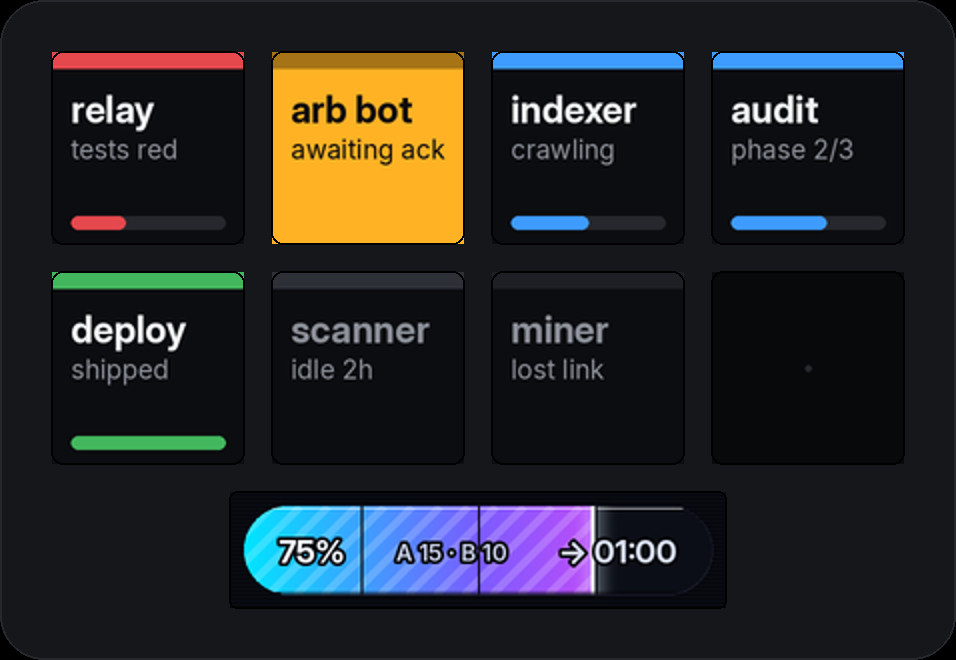
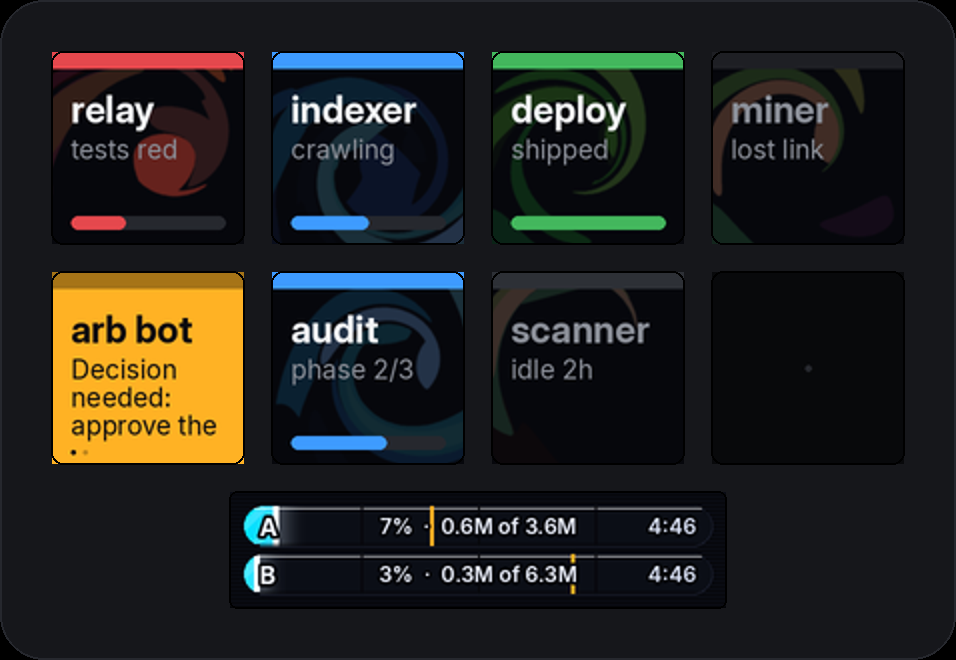
asks wrap and page on hot keys; user-guide front page finalized
Attention/blocked keys give the ask the key's whole middle: up to three
wrapped lines (markdown chrome stripped at the source), and long asks
alternate between two text pages on a 3s tick with tiny page dots — the
flash draws the eye, the page flip lets the sentence finish. Tick
threaded through client and deck fingerprints so only paged keys redraw.

README is now the operator guide that was asked for: orange vs red, the tally
bars, heat, the router verbs including space-done.

diff --git a/tallydeck/render/keycard.py b/tallydeck/render/keycard.py
@@ -54,8 +54,24 @@ def _wrap2(draw: ImageDraw.ImageDraw, text: str, font, max_w: int) -> list[str]:
     return [head, _truncate(draw, rest, font, max_w)]
 
 
+def _wrap_n(draw, text, font, max_w, max_lines):
+    words, lines, line = text.split(), [], ""
+    for w in words:
+        cand = f"{line} {w}".strip()
+        if draw.textlength(cand, font=font) > max_w and line:
+            lines.append(line)
+            line = w
+            if len(lines) == max_lines:
+                break
+        else:
+            line = cand
+    if line and len(lines) < max_lines:
+        lines.append(line)
+    return lines
+
+
 def draw_key(sig: Signal | None, px: int, lit: bool = False,
-             pressed: bool = False) -> Image.Image:
+             pressed: bool = False, askpage: int = 0) -> Image.Image:
     """Render one key face at px × px. `lit` = flash flood frame,
     `pressed` = finger currently down (bright ring, instant feedback)."""
     s = px * SS
@@ -141,8 +157,28 @@ def draw_key(sig: Signal | None, px: int, lit: bool = False,
 
     if sig.sublabel:
         y2 = y + round(s * 0.24)
-        d.text((pad, y2), _truncate(d, sig.sublabel, f_sub, s - 2 * pad),
-               font=f_sub, fill=sub)
+        if sig.state in ("attention", "blocked") and len(sig.sublabel) > 30:
+            # The ask gets the key's whole empty middle: up to 3 wrapped
+            # lines, and a long ask alternates between two text pages on a
+            # slow tick (the flash already draws the eye; the page flip
+            # lets the message finish its sentence).
+            lines = _wrap_n(d, sig.sublabel, f_sub, s - 2 * pad, 6)
+            per = 3
+            pages = max(1, (len(lines) + per - 1) // per)
+            pg = askpage % pages
+            for i, ln in enumerate(lines[pg * per:(pg + 1) * per]):
+                d.text((pad, y2 + i * round(s * 0.145)), ln,
+                       font=f_sub, fill=sub)
+            if pages > 1:      # tiny page dots, bottom-left
+                r_ = max(2, s // 40)
+                for pi in range(pages):
+                    x0d = pad + pi * r_ * 3
+                    y0d = s - round(s * 0.05) - r_
+                    d.ellipse([x0d, y0d, x0d + r_, y0d + r_],
+                              fill=fill if pi == pg else track)
+        else:
+            d.text((pad, y2), _truncate(d, sig.sublabel, f_sub, s - 2 * pad),
+                   font=f_sub, fill=sub)
 
     # progress
     if sig.progress is not None:

diff --git a/tallydeck/render/deckdev.py b/tallydeck/render/deckdev.py
@@ -102,20 +102,24 @@ class DeckSurface:
     def show(self, layout: Layout, lit: dict[str, bool],
              t: float = 0.0, pressed: frozenset = frozenset()) -> None:
         with self._lock:
+            askpage = int(t / 3) % 2
             for i, sig in enumerate(layout.keys[:self.profile.keys]):
                 is_lit = bool(sig and lit.get(sig.id))
                 is_pressed = i in pressed
+                paged = bool(sig and sig.state in ("attention", "blocked")
+                             and len(sig.sublabel) > 30)
                 # Skip HID writes for unchanged keys — flashing 2 of 8 keys
                 # should cost 2 updates per frame, not 8.
                 print_key = (None if sig is None else
                              (sig.id, sig.state, sig.label, sig.sublabel,
                               sig.progress, sig.color,
                               round(float(sig.meta.get('heat', 0) or 0), 2)),
-                             is_lit, is_pressed)
+                             is_lit, is_pressed, askpage if paged else 0)
                 if self._drawn.get(i) == print_key:
                     continue
                 img = draw_key(sig, self.profile.key_px, lit=is_lit,
-                               pressed=is_pressed)
+                               pressed=is_pressed,
+                               askpage=askpage if paged else 0)
                 native = self._pil.to_native_key_format(
                     self.deck, self._pil.create_scaled_key_image(self.deck, img))
                 self.deck.set_key_image(i, native)

diff --git a/tallydeck/client.py b/tallydeck/client.py
@@ -212,7 +212,11 @@ def run(link, surface, view: View, poll_every: float = 2.0,
                      None if m is None else tuple(sorted(
                          (k, v) for k, v in m.meta.items()
                          if isinstance(v, (str, int, float, bool)))),
-                     int(wall * 0.5) if m is not None else 0)  # meter hatch tick
+                     int(wall * 0.5) if m is not None else 0,  # meter hatch tick
+                     int(wall / 3) % 2 if any(
+                         s and s.state in ("attention", "blocked")
+                         and len(s.sublabel) > 30 for s in layout.keys)
+                     else 0)                                    # ask page tick
             if frame != prev_frame:
                 surface.show(layout, lit, t=wall, pressed=pressed)
                 prev_frame = frame

diff --git a/tallydeck/sources/claude_sessions.py b/tallydeck/sources/claude_sessions.py
@@ -252,7 +252,10 @@ class ClaudeSessionsSource(Source):
                 snip = _snippet(lines)
                 if state == ATTENTION and snip:
                     # 96px answers "what do I do?" — the ask beats a rate.
-                    sub = snip[:34]
+                    # Markdown chrome (**bold** etc.) is noise at this size;
+                    # the renderer wraps and pages the text itself.
+                    import re as _re
+                    sub = _re.sub(r"[*_`#]+", "", snip)[:160]
                 flash = None
                 if state == ATTENTION and (now - mtime) > self.flash_for:
                     flash = False

diff --git a/tallydeck/render/png.py b/tallydeck/render/png.py
@@ -57,7 +57,8 @@ def render_png(profile: DeviceProfile, layout: Layout,
         x = bez + c * (kp + gap)
         y = bez + r * (kp + gap)
         face = draw_key(sig, profile.key_px,
-                        lit=bool(sig and lit.get(sig.id))).resize((kp, kp))
+                        lit=bool(sig and lit.get(sig.id)),
+                        askpage=int(t / 3) % 2).resize((kp, kp))
         img.paste(face, (x, y))
         d.rounded_rectangle([x - 1, y - 1, x + kp, y + kp],
                             radius=6 * scale, outline="#000000", width=scale)

diff --git a/README.md b/README.md
@@ -21,8 +21,9 @@ into the exact session that's asking — briefed, focused, ready to type.
 | 🟢 **Green** | `success` | Finished well; expires off the deck on its own. | Nothing |
 | ⚫ **Gray / dark** | `idle` / `offline` | Alive but quiet, or gone stale. | Nothing |
 
-Hot attention keys show **the actual question** as their second line, so you
-often know your answer before you press.
+Hot attention keys show **the actual question**, wrapped across the key —
+long asks alternate between two pages of text (watch the little dots), so
+you often know your answer before you press.
 
 ### The line above each tile (the tally bar)
 
@@ -73,6 +74,7 @@ off, repo state, related queue tasks. Then one key routes it:
 | **⏎ Enter** | Open the session **floating in the popup** (resumes it first if it isn't running). Work in it; `Ctrl-b d` puts it back. |
 | **t** | Open it as a **tab** (window) of your current tmux session |
 | **s** | **Split** it into your current window, side by side |
+| **␣ space** | **Done** — mute the alert like archiving mail; it revives only if the session asks anew |
 | anything else | Dismiss — nothing anywhere changed |
 | **long-press the deck key** | Snooze that alarm 15 min (long-press again to wake) |
 
